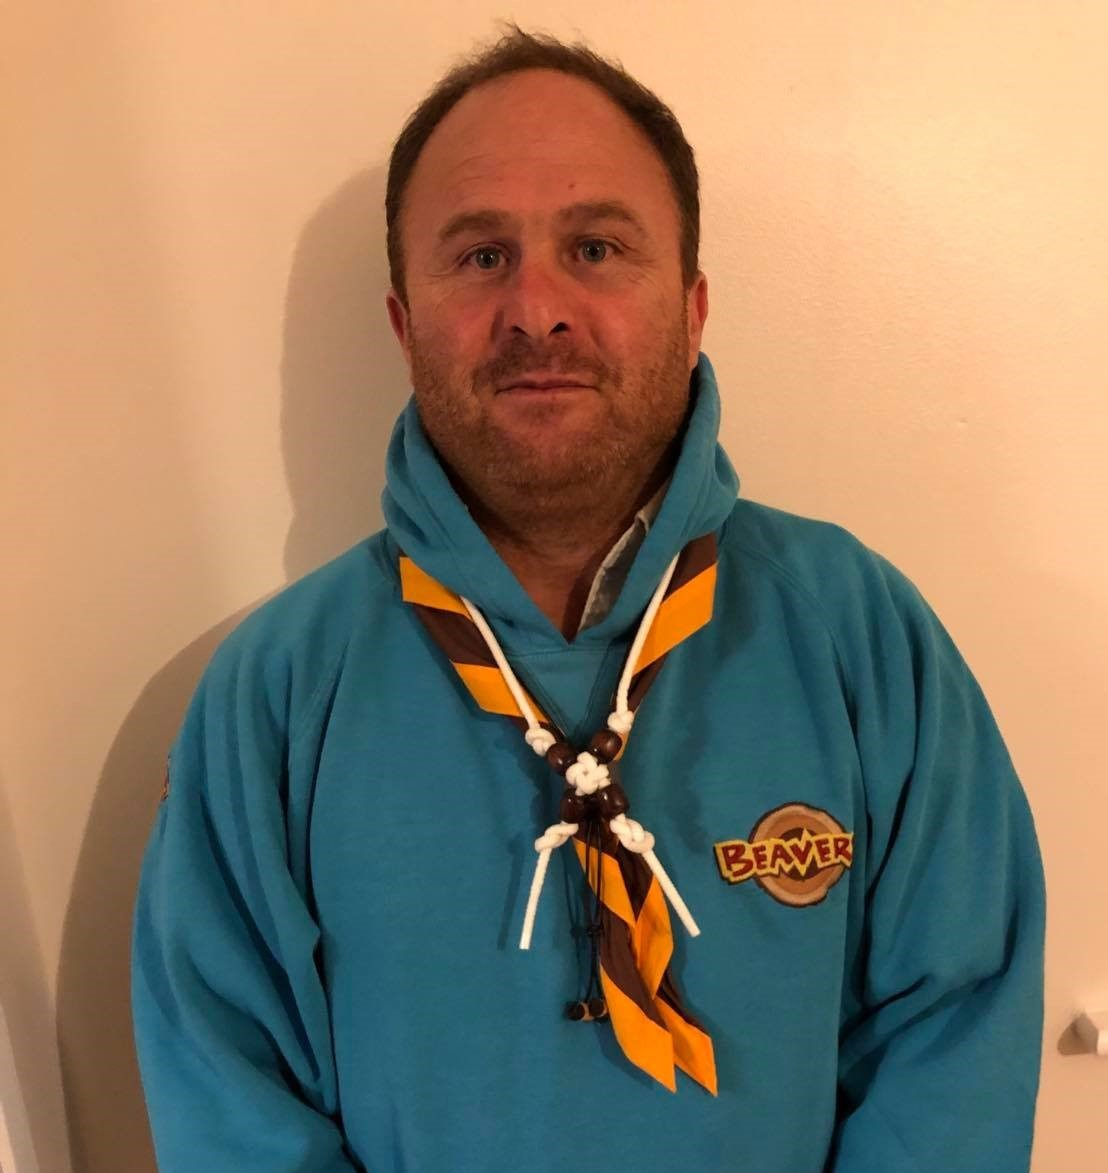
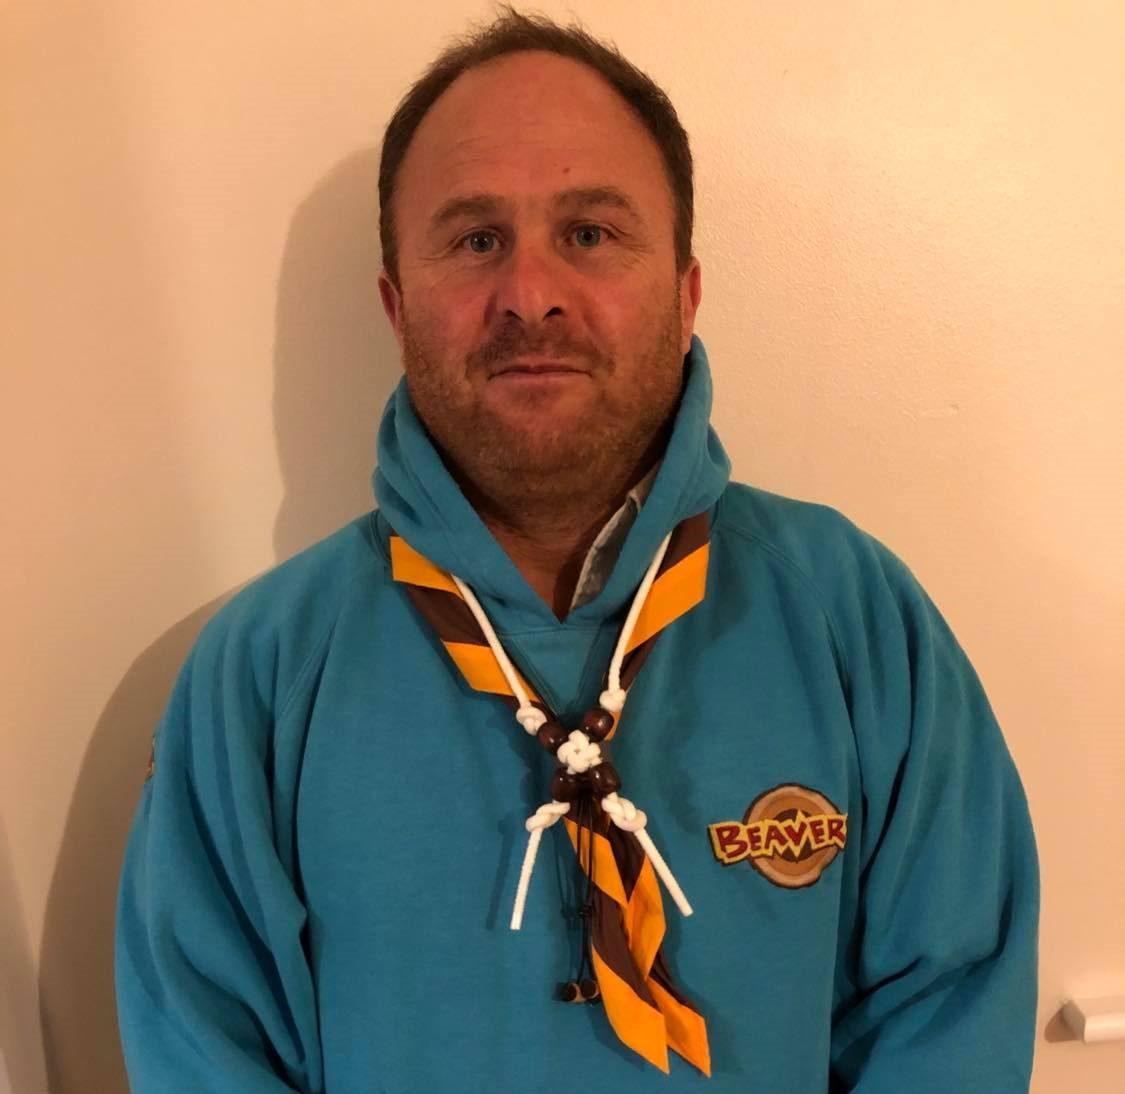
Adding images for leaders

diff --git a/src/Components/WhosWho.tsx b/src/Components/WhosWho.tsx
@@ -39,9 +39,9 @@ const WhosWho: FC<IProps> = ({ beavers, cubs, scouts, explorers}: IProps) => {
 
       {cubs ? (  
         <>
-          <Profile image='FDL_Green' smallImage name="Susanne Pickering" nickname="Akela" title="Cub Leader" accent="Green" />
-          <Profile image='FDL_Green' smallImage name="Chris Ardington" nickname="..." title="Cub Leader" accent="Green" />
-          <Profile image='FDL_Green' smallImage name="Sarah Grady" nickname="..." title="Cub Leader" accent="Green" />
+          <Profile image='susanne' name="Susanne Pickering" nickname="Akela" title="Cub Leader" accent="Green" />
+          <Profile image='chris' name="Chris Ardington" nickname="..." title="Cub Leader" accent="Green" />
+          <Profile image='sarah' name="Sarah Grady" nickname="Raksha" title="Cub Leader" accent="Green" />
           <Profile image='FDL_Green' smallImage name="James Hawthorne" nickname="..." title="Assistant Cub Leader" accent="Green" />
         </>
       ) : null}
@@ -49,16 +49,16 @@ const WhosWho: FC<IProps> = ({ beavers, cubs, scouts, explorers}: IProps) => {
       {scouts ? (  
         <>
           <Profile image='FDL_Purple' smallImage name="Steve Dowell" nickname="Skip" title="Scout Leader" accent="Purple" />
-          <Profile image='FDL_Purple' smallImage name="Andy Francis" nickname="Sgt. Tibbs" title="Scout Leader" accent="Purple" />
-          <Profile image='FDL_Purple' smallImage name="Chris Ardington" nickname="..." title="Scout Leader" accent="Purple" />
-          <Profile image='FDL_Purple' smallImage name="James Hawthorne" nickname="..." title="Assistant Scout Leader" accent="Purple" />
+          <Profile image='andyScouts' name="Andy Francis" nickname="Sgt. Tibbs" title="Scout Leader" accent="Purple" />
+          <Profile image='chris' name="Chris Ardington" nickname="..." title="Scout Leader" accent="Purple" />
+          <Profile image='james' name="James Hawthorne" nickname="..." title="Assistant Scout Leader" accent="Purple" />
         </>
       ) : null}
 
       {explorers ? (  
         <>
-          <Profile image='FDL_Red' smallImage name="Jacob Illston" nickname="..." title="Explorer Leader" accent="Red" />
-          <Profile image='FDL_Red' smallImage name="Rhys Howard" nickname="..." title="Explorer Leader" accent="Red" />
+          <Profile image='jacob' name="Jacob Illston" nickname="..." title="Explorer Leader" accent="Red" />
+          <Profile image='rhys' name="Rhys Howard" nickname="..." title="Explorer Leader" accent="Red" />
         </>
       ) : null}
     </Container>

diff --git a/src/Shared/ImageLib.tsx b/src/Shared/ImageLib.tsx
@@ -30,6 +30,13 @@ import scoutsHeroMobile from '../img/mobile/scouts-life-jackets.jpg';
 import jessica from '../img/desktop/JessicaHoward.jpg';
 import louise from '../img/desktop/LouiseDowell.jpg';
 import andy from '../img/desktop/AndyFrancis.jpg';
+import andyScouts from '../img/desktop/AndyFrancis_Scouts.jpg';
+import rhys from '../img/desktop/RhysHoward.jpg';
+import jacob from '../img/desktop/JacobIllston.jpg';
+import chris from '../img/desktop/ChrisArdington.jpg';
+import james from '../img/desktop/JamesHawthorne.jpg';
+import sarah from '../img/desktop/SarahGrady.jpg';
+import susanne from '../img/desktop/SusannePickering.jpg';
 
 
 // Beavers Characters
@@ -63,6 +70,14 @@ export const ImagesDesktop = {
   'jessica': jessica,
   'louise': louise,
   'andy': andy,
+  'andyScouts': andyScouts,
+  'rhys': rhys,
+  'jacob': jacob,
+  'chris': chris,
+  'james': james,
+  'sarah': sarah,
+  'susanne': susanne,
+
 
   'characters': characters,
   
@@ -94,6 +109,13 @@ export const ImagesMobile = {
   'jessica': jessica,
   'louise': louise,
   'andy': andy,
+  'andyScouts': andyScouts,
+  'rhys': rhys,
+  'jacob': jacob,
+  'chris': chris,
+  'james': james,
+  'sarah': sarah,
+  'susanne': susanne,
 
   'characters': characters,
   
@@ -103,4 +125,4 @@ export const ImagesMobile = {
   'FDL_Red': FDL_Red,
 }
 
-export type imageLib = 'rkh' | 'leaders' | 'bear' | 'groupImage' | 'beaversSection' | 'cubsSection' | 'scoutsSection' | 'explorersSection' | 'highRopesHero' | 'kayakingHero' | 'expeditionHero' | 'beaversHero' | 'cubsHero' | 'scoutsHero' | 'jessica' | 'louise' | 'andy' | 'characters' | 'FDL_Blue' | 'FDL_Green' | 'FDL_Purple' | 'FDL_Red';
+export type imageLib = 'rkh' | 'leaders' | 'bear' | 'groupImage' | 'beaversSection' | 'cubsSection' | 'scoutsSection' | 'explorersSection' | 'highRopesHero' | 'kayakingHero' | 'expeditionHero' | 'beaversHero' | 'cubsHero' | 'scoutsHero' | 'jessica' | 'louise' | 'andy' | 'andyScouts' | 'rhys' | 'jacob' | 'chris' | 'james' | 'sarah' | 'susanne' | 'characters' | 'FDL_Blue' | 'FDL_Green' | 'FDL_Purple' | 'FDL_Red';
